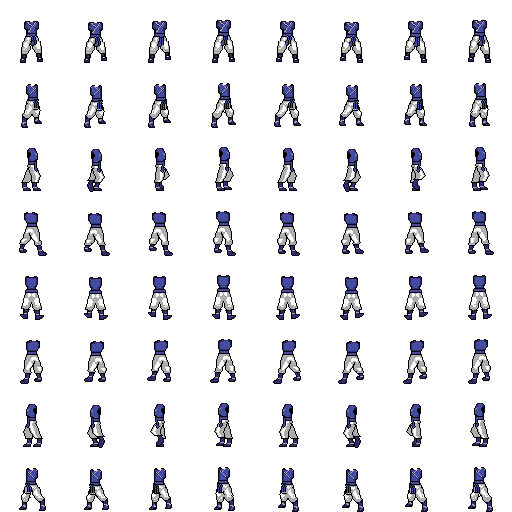
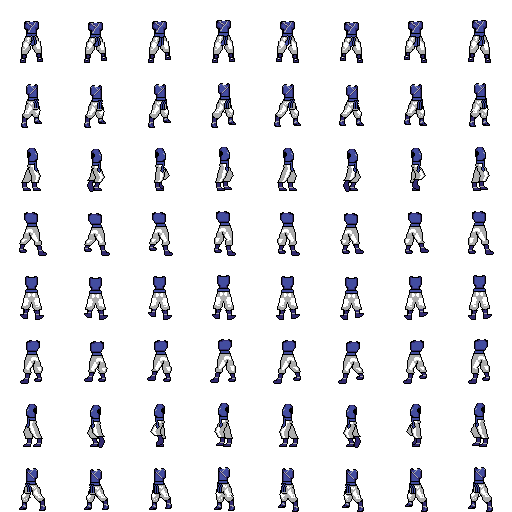
Add a smooth hip sway to NE/NW
Pelvis, shorts/belt and both thigh tops sway 1 px toward the stance leg
(0,1,1,1,0,-1,-1,-1), changing at most 1 px per frame; planted feet hold and
each leg still swings from the crotch. Sash flaps hang from the swaying waist.
Clothing pinhole fill now starts at row 33 (a waist pixel showed in NE frame 5).

Claude-Session: https://claude.ai/code/session_013WttnryZTQwNqhE13KPGe3

diff --git a/DEVELOPMENT_STATUS.md b/DEVELOPMENT_STATUS.md
@@ -91,7 +91,7 @@ Locked base geometry is under **change control** (approved 2026-10-02):
 - animation plan approved (2026-10-06), recorded as `characterAnimationPlan` in the manifest: idle 8 (all 8 directions), walk 8, sprint 8, light attack jab/cross 4, heavy kick chain 16 (E/W first for all but idle), max 16 frames, one speed per animation with holds only on approved key poses, per-frame root motion (dx, dy);
 - long-hair sway split: approved for male and female (2026-10-06); built for male, female follows once the female rig exists — cap (rows ≤15, follows head), `hair-fall-upper` (rows 16–19, 1-frame lag), `hair-fall-lower` (rows 20+, 2-frame lag); 
 - male idle (8 frames, all 8 directions): approved by the user (2026-10-06); rendered by `tools/character-animate.mjs` into `production/source/characters/anim/male/idle/` from the spec `idle.json` — head leads the 1-px exhale and returns last, torso settles, arms lag on the way down (NE/NW arms move with the torso), hair falls settle after the cap; pelvis, legs and sash fixed. QC: no seam gaps, no new skin under any clothing, feet planted, frame 0 = reference. Layer 2 clothing at or below the waistline now always stays with the pelvis/legs;
-- male walk (8 frames, E authored, W mirrored): approved by the user (2026-10-06); rendered by `tools/character-posed.mjs` into `production/source/characters/anim/male/walk/` from the spec `walk.json`. The near leg runs 8 authored poses (contact, down, passing, up, contact, toe-off, passing swing, reach); the far leg runs the same poses 4 frames later, one shade darker, behind the body. Legs are row spans with the reference shading; contact/passing/up/reach reuse the reference wrap+foot block, down/toe-off/swing carry the shin slope through the wrap and use authored feet (flat, toe-off, toes dropped). Arms swing from the shoulder (near back 5 px as a pendulum with the wrist wrap rigid, forward 4 px along a line with a slight elbow bend); the far arm mirrors the phase. Body bob 0/+1/0/−1; hair falls lag but never rise above the part above them. Where the reference arm was painted into Body1 the uncovered torso/trunk is filled; generated outline is cleaned (pixels that outline nothing removed, doubled far-side lines merged). The W reference is verified as an exact mirror of E before mirroring. Root motion 3/2 px alternating (planted foot slides with it). QC: no unoutlined edges or holes, every frame touches the ground, palette locked. S and N (approved 2026-10-06) are built from their own reference frames with no new pixels: a raised leg is the leg shortened by dropping listed reference rows (swing lift 1/2/3/1 px, the planted leg stays on row 63), arms swing from the shoulder by dropping or repeating the elbow row, then a forearm row, then a wrist-wrap row (hand 3/2/0 px; forward lengthens in S and shortens in N), bob 0/+1/0/0, same step phase as E/W. Where a moved N arm's outline meets the trunk, the 1-px background hole is closed with outline. Approved as a draft state to revisit (2026-10-06): SE (SW mirrored) blends the S row edits with a sideways swing — legs move at the hip and swing to the foot, arms swing from the shoulder, far side drawn behind, new exposures outlined; all directions share one step phase and one bob (0/+1/0/−1, S/N repeat a leg row on −1 frames) and W/SW play their mirrored source half a cycle later, so the walk can change direction on any frame. NE (NW mirrored) approved 2026-10-07: built like SE from the back (forward arm shortens, legs spread with the right leg forward and cross with the left; near-arm length edits only on the wrap rows below 33). Sheets now hold all 8 directions in reference order S, SE, E, NE, N, NW, W, SW. Male Gi fitted to the walk (approved 2026-10-07, `male-gi.png` in the walk folder): front/back/diagonal views move each Gi pixel with the body part it covers; the profile (E, W mirrored) authors trouser rows on each posed leg (leg span widened 2 px back / 1 px front, Gi trouser shading, hem above the wrap, knee fold), keeps the reference wrap+shoe on reference-ankle poses, and on line poses stripes the sloped wrap rows and draws toe-down feet as the shoe; the jacket under the swung arm takes the jacket base colour; the far trouser is shaded one step darker; SW/NW Gi come from their own frames (the Gi is not an exact mirror there); leg skin uncovered from under the sash takes trouser mid colour; new cloth edges get the Gi outline. The sash flaps swing from the knot (row 34) as a pendulum phased with the step and lag the bob by a frame; body uncovered under them takes trouser mid colour. Male Gi E/W ankle wraps corrected (2026-10-07): the inner black stripe (column 29 E / 34 W, rows 56–59) is now wrap grey, so the wrap has a single outline; the idle Gi and rig overlay split were regenerated. The E/W wraps were then narrowed to the near ankle's 3-px wrap (rows 56–59, columns 30–34 E / mirrored W) to match the other directions; the far ankle shows the body's own wrap behind it. The sash band and knot now move exactly with the waist (bandFollowsBody); only the flaps lag and swing. Blue and red armour plus their shoulder pieces fitted to the walk (candidate 2026-10-07) with the same rules: armour leg rows authored on each posed leg (2 px back / 1 px front, grey with white front), boots rigid from row 55 on reference-ankle poses and rebuilt as seamed shafts and boot-coloured feet on line poses, belt flap swinging below row 35; Layer 4 pads and bracers follow the arm part they sit on, and in E/W the hidden far arm gets the near pieces, shaded darker, wherever the far arm shows. Both armours' E/W boots were trimmed to the near boot (2026-10-07: far-boot sliver and its inner black line removed on rows 54–60, W mirrored), so the ankle has one outline like the Gi; the walk's sloped boot shafts use the same width. NW/NE seat fix (2026-10-07): NE hips stay with the pelvis and each leg's swing starts at the crotch (row 46): spreading the joined thighs opened doubled seams at the seat, and a one-frame hip shift read as a jerk; clothing cleanup removes 1–2 px cloth specks and orphaned outline left between the legs (never uncovering the body), and closes body pinholes still showing inside cloth. Armours and shoulder pieces are still pending; clothing (Gi, armours) and shoulder accessories are not fitted to the walk yet;
+- male walk (8 frames, E authored, W mirrored): approved by the user (2026-10-06); rendered by `tools/character-posed.mjs` into `production/source/characters/anim/male/walk/` from the spec `walk.json`. The near leg runs 8 authored poses (contact, down, passing, up, contact, toe-off, passing swing, reach); the far leg runs the same poses 4 frames later, one shade darker, behind the body. Legs are row spans with the reference shading; contact/passing/up/reach reuse the reference wrap+foot block, down/toe-off/swing carry the shin slope through the wrap and use authored feet (flat, toe-off, toes dropped). Arms swing from the shoulder (near back 5 px as a pendulum with the wrist wrap rigid, forward 4 px along a line with a slight elbow bend); the far arm mirrors the phase. Body bob 0/+1/0/−1; hair falls lag but never rise above the part above them. Where the reference arm was painted into Body1 the uncovered torso/trunk is filled; generated outline is cleaned (pixels that outline nothing removed, doubled far-side lines merged). The W reference is verified as an exact mirror of E before mirroring. Root motion 3/2 px alternating (planted foot slides with it). QC: no unoutlined edges or holes, every frame touches the ground, palette locked. S and N (approved 2026-10-06) are built from their own reference frames with no new pixels: a raised leg is the leg shortened by dropping listed reference rows (swing lift 1/2/3/1 px, the planted leg stays on row 63), arms swing from the shoulder by dropping or repeating the elbow row, then a forearm row, then a wrist-wrap row (hand 3/2/0 px; forward lengthens in S and shortens in N), bob 0/+1/0/0, same step phase as E/W. Where a moved N arm's outline meets the trunk, the 1-px background hole is closed with outline. Approved as a draft state to revisit (2026-10-06): SE (SW mirrored) blends the S row edits with a sideways swing — legs move at the hip and swing to the foot, arms swing from the shoulder, far side drawn behind, new exposures outlined; all directions share one step phase and one bob (0/+1/0/−1, S/N repeat a leg row on −1 frames) and W/SW play their mirrored source half a cycle later, so the walk can change direction on any frame. NE (NW mirrored) approved 2026-10-07: built like SE from the back (forward arm shortens, legs spread with the right leg forward and cross with the left; near-arm length edits only on the wrap rows below 33). Sheets now hold all 8 directions in reference order S, SE, E, NE, N, NW, W, SW. Male Gi fitted to the walk (approved 2026-10-07, `male-gi.png` in the walk folder): front/back/diagonal views move each Gi pixel with the body part it covers; the profile (E, W mirrored) authors trouser rows on each posed leg (leg span widened 2 px back / 1 px front, Gi trouser shading, hem above the wrap, knee fold), keeps the reference wrap+shoe on reference-ankle poses, and on line poses stripes the sloped wrap rows and draws toe-down feet as the shoe; the jacket under the swung arm takes the jacket base colour; the far trouser is shaded one step darker; SW/NW Gi come from their own frames (the Gi is not an exact mirror there); leg skin uncovered from under the sash takes trouser mid colour; new cloth edges get the Gi outline. The sash flaps swing from the knot (row 34) as a pendulum phased with the step and lag the bob by a frame; body uncovered under them takes trouser mid colour. Male Gi E/W ankle wraps corrected (2026-10-07): the inner black stripe (column 29 E / 34 W, rows 56–59) is now wrap grey, so the wrap has a single outline; the idle Gi and rig overlay split were regenerated. The E/W wraps were then narrowed to the near ankle's 3-px wrap (rows 56–59, columns 30–34 E / mirrored W) to match the other directions; the far ankle shows the body's own wrap behind it. The sash band and knot now move exactly with the waist (bandFollowsBody); only the flaps lag and swing. Blue and red armour plus their shoulder pieces fitted to the walk (candidate 2026-10-07) with the same rules: armour leg rows authored on each posed leg (2 px back / 1 px front, grey with white front), boots rigid from row 55 on reference-ankle poses and rebuilt as seamed shafts and boot-coloured feet on line poses, belt flap swinging below row 35; Layer 4 pads and bracers follow the arm part they sit on, and in E/W the hidden far arm gets the near pieces, shaded darker, wherever the far arm shows. Both armours' E/W boots were trimmed to the near boot (2026-10-07: far-boot sliver and its inner black line removed on rows 54–60, W mirrored), so the ankle has one outline like the Gi; the walk's sloped boot shafts use the same width. NW/NE seat fix (2026-10-07): NE hips sway smoothly: the pelvis, shorts/belt and both thigh tops shift together 1 px toward the stance leg (0,1,1,1,0,−1,−1,−1, never more than 1 px between frames) while the planted foot holds and each leg swings from the crotch (row 46) — spreading the joined thighs opened doubled seams at the seat, and a one-frame shift read as a jerk; clothing pinhole fill now starts at row 33; clothing cleanup removes 1–2 px cloth specks and orphaned outline left between the legs (never uncovering the body), and closes body pinholes still showing inside cloth. Armours and shoulder pieces are still pending; clothing (Gi, armours) and shoulder accessories are not fitted to the walk yet;
 - contact shadow registered as the lowest character layer (`Paperdolls/contact-shadow.png`, fixed ellipse, fully opaque);
 - Male Body1 replaced with the user's updated sheet (2026-10-06): S/N legs straighter and narrower, NE/NW feet adjusted; Arms1, hair and eyes unaffected. Refits: Male Gi S/N hem underline and ankle wraps shifted inward with the shins (S 1 px, N 2 px), S/N shoes rebuilt on the new foot shapes, NE/NW changed foot rebuilt the same way; trousers above row 54 unchanged (shifting them would make the inner edges overlap; they still cover the new legs). Both armours: N boots (rows 54–63) shifted 2 px inward. No skin shows under any male clothing layer in the changed frames;
 - Male Gi S frame reworked (approved 2026-10-06): trouser outer edges straightened (hip to cuff, inner edges unchanged) so the legs no longer bow; trousers lengthened 2 rows (rows 50–51 repeated, hem now rows 54–56); ankle wraps straightened to a 5-px column and shortened to rows 57–59. Applied to all other directions (approved 2026-10-06): outer edges straightened from row 44 to the hem (profiles: front and back edges; SE and NE keep 1 px of the original knee curve), trousers 2 rows longer, wraps straightened and 2 rows shorter; where the narrow wrap would uncover ankle skin, the row just above the shoe keeps its original shape (SE/SW raised foot, E/W, NE both legs, NW left);
